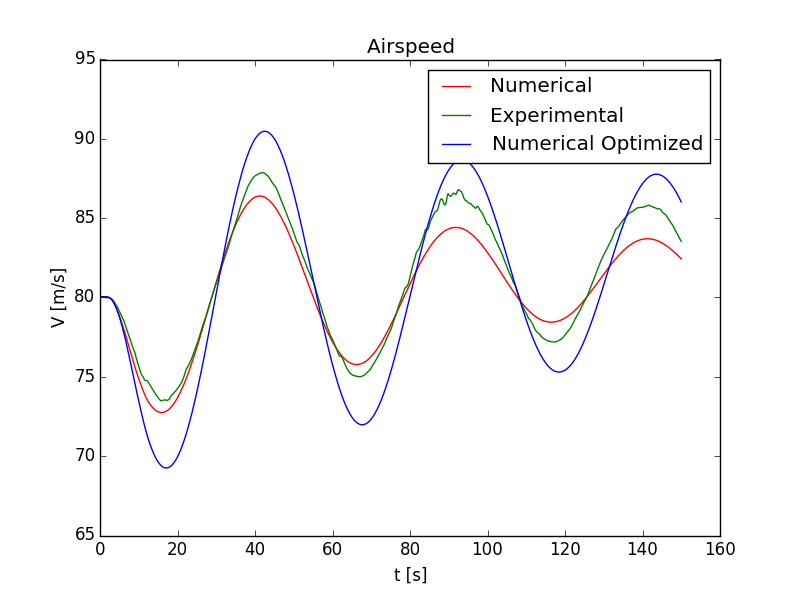
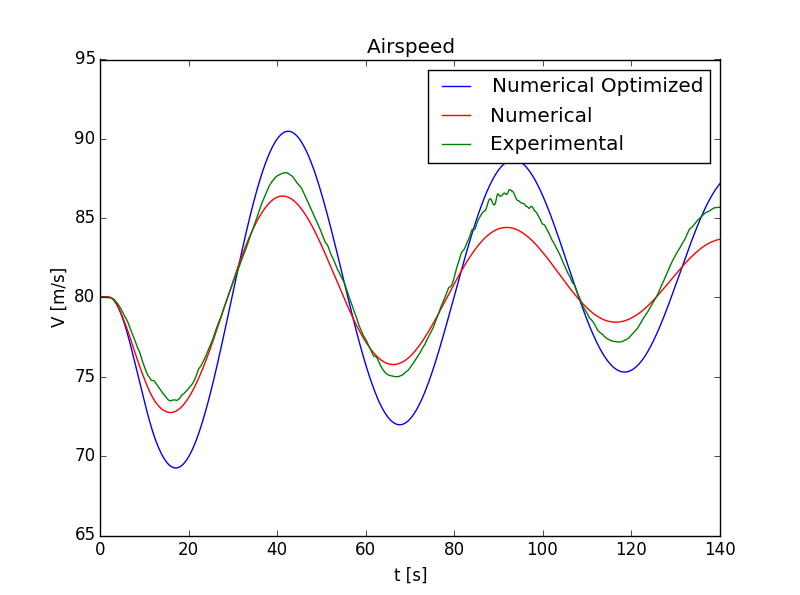
Beep Boop ik ben een robot

diff --git a/Numerical_Analysis_Symetric.py b/Numerical_Analysis_Symetric.py
@@ -76,50 +76,57 @@ def Symetric(name):
     y3 += name.PitchAngle0
 
 
-##    plotting the total grpahs
-#    plt.figure(0)
-#    plt.title('Airspeed ')
-#    plt.plot(t, y1, label="Numerical Optimized", color="blue")
-#    plt.ylabel("V [m/s]")
-#    plt.xlabel("t [s]")
-##    plt.plot(t, name.EAS, label="Experimental", color='green')
-#    plt.legend()
-#    plt.savefig((namem + " Airspeed"))
-#    plt.show()
-#
-##    plt.subplot(222)
-##    plt.title('alpha')
-##    plt.plot(t, y2)
-##    plt.plot(t, name.AoA)
-#
-#    plt.figure(1)
-#    plt.tick_params(axis="x", labelsize=15)
-#    plt.tick_params(axis="y", labelsize=15)
-#    plt.title('Pitch angle')
-#    plt.plot(t, y3, label="Numerical Optimized", color="blue")
-#    plt.ylabel(r'$\theta$ [deg]')
-#    plt.xlabel("t [s]")
-##    plt.plot(t, name.PitchAngle, label="Experimental", color='green')
-#    plt.legend()
-#    plt.savefig((namem + " Pitch Angle"))
-#    plt.show()
-#
-#    plt.figure(2)
-#    plt.tick_params(axis="x", labelsize=15)
-#    plt.tick_params(axis="y", labelsize=15)
-#    plt.title('Pitch rate')
-#    plt.plot(t, y4, label="Numerical Optimized", color="blue")
-#    plt.ylabel(r'$q$ [deg/s]')
-#    plt.xlabel("t [s]")
-##    plt.plot(t, name.PitchRate, label="Experimental", color='green')
-#    plt.legend()
-#    plt.savefig((namem + " PitchRate"))
-#    plt.show()
+#    plotting the total grpahs
+    plt.figure(0)
+#    plt.gca().set_ylim([-1,0])
+    plt.gca().set_xlim([0,140])    
+    plt.title('Airspeed ')
+    plt.plot(t, y1, label="Numerical", color="red")
+    plt.ylabel("V [m/s]")
+    plt.xlabel("t [s]")
+    plt.plot(t, name.EAS, label="Experimental", color='green')
+    plt.legend()
+    plt.savefig((namem + " Airspeed"))
+    plt.show()
+
+#    plt.subplot(222)
+#    plt.title('alpha')
+#    plt.plot(t, y2)
+#    plt.plot(t, name.AoA)
+
+    plt.figure(1)
+#    plt.gca().set_ylim([-1,0])
+    plt.gca().set_xlim([0,140])    
+    plt.tick_params(axis="x", labelsize=15)
+    plt.tick_params(axis="y", labelsize=15)
+    plt.title('Pitch angle')
+    plt.plot(t, y3, label="Numerical", color="red")
+    plt.ylabel(r'$\theta$ [deg]')
+    plt.xlabel("t [s]")
+    plt.plot(t, name.PitchAngle, label="Experimental", color='green')
+    plt.legend()
+    plt.savefig((namem + " Pitch Angle"))
+    plt.show()
+
+    plt.figure(2)
+#    plt.gca().set_ylim([-1,0])
+    plt.gca().set_xlim([0,140])    
+    plt.tick_params(axis="x", labelsize=15)
+    plt.tick_params(axis="y", labelsize=15)
+    plt.title('Pitch rate')
+    plt.plot(t, y4, label="Numerical", color="red")
+    plt.ylabel(r'$q$ [deg/s]')
+    plt.xlabel("t [s]")
+    plt.plot(t, name.PitchRate, label="Experimental", color='green')
+    plt.legend()
+    plt.savefig((namem + " PitchRate"))
+    plt.show()
     
     plt.figure(3)
     plt.tick_params(axis="x", labelsize=15)
     plt.tick_params(axis="y", labelsize=15)
 #    plt.gca().set_ylim([-1,0])
+    plt.gca().set_xlim([0,140])    
     plt.title("Elevator deflection")
     plt.plot(t, (delev*180/np.pi), color='green')
     plt.ylabel("$\delta_e$ [deg]")

diff --git a/Data_cruncher.py b/Data_cruncher.py
@@ -1,6 +1,6 @@
 import numpy as np
 from Eq_airspeed import *
-from Cit_par_Corne import *
+from Cit_par_SUKKELS import *
 import matplotlib.pyplot as plt
 
 #importing all measured data from text files into numpy arrays
